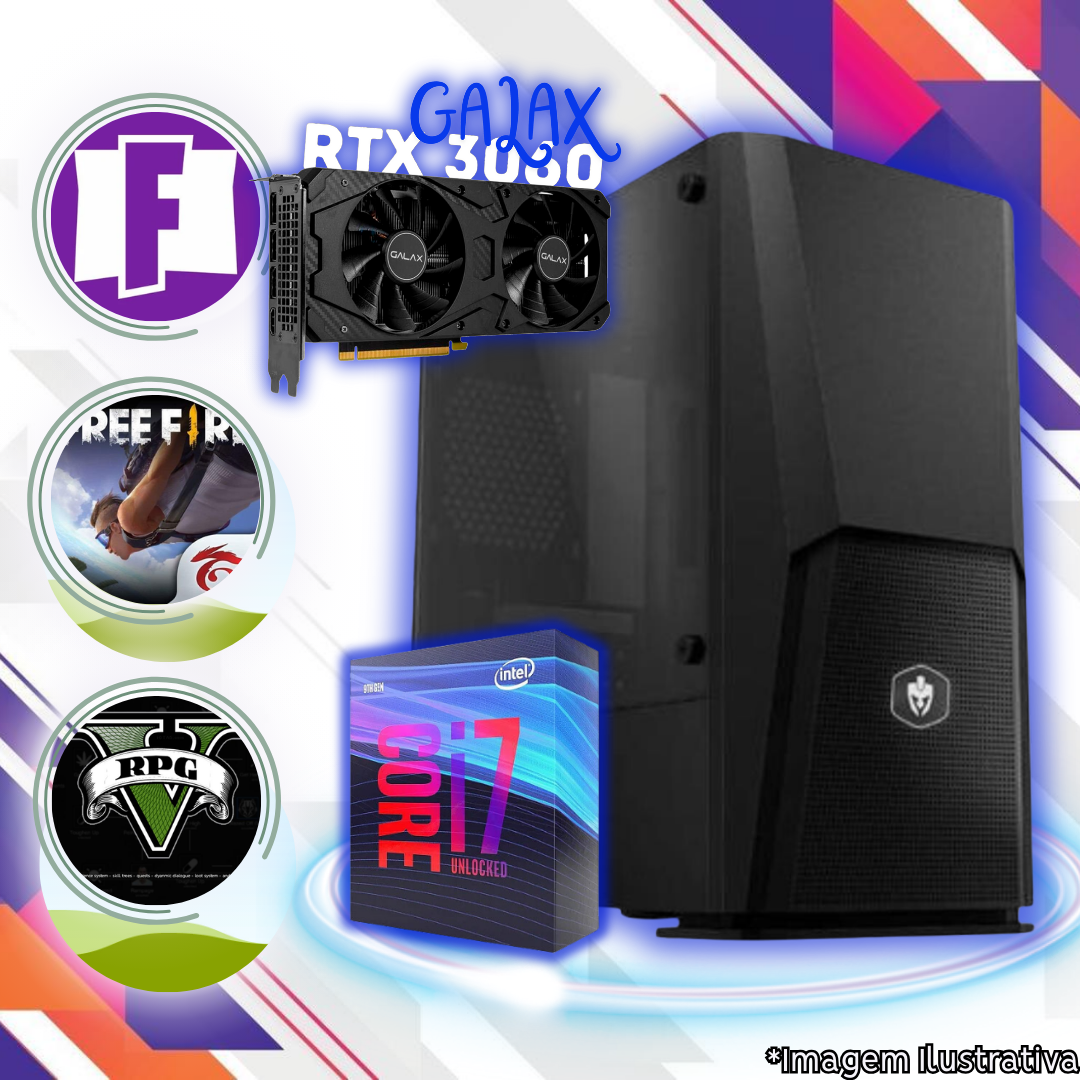
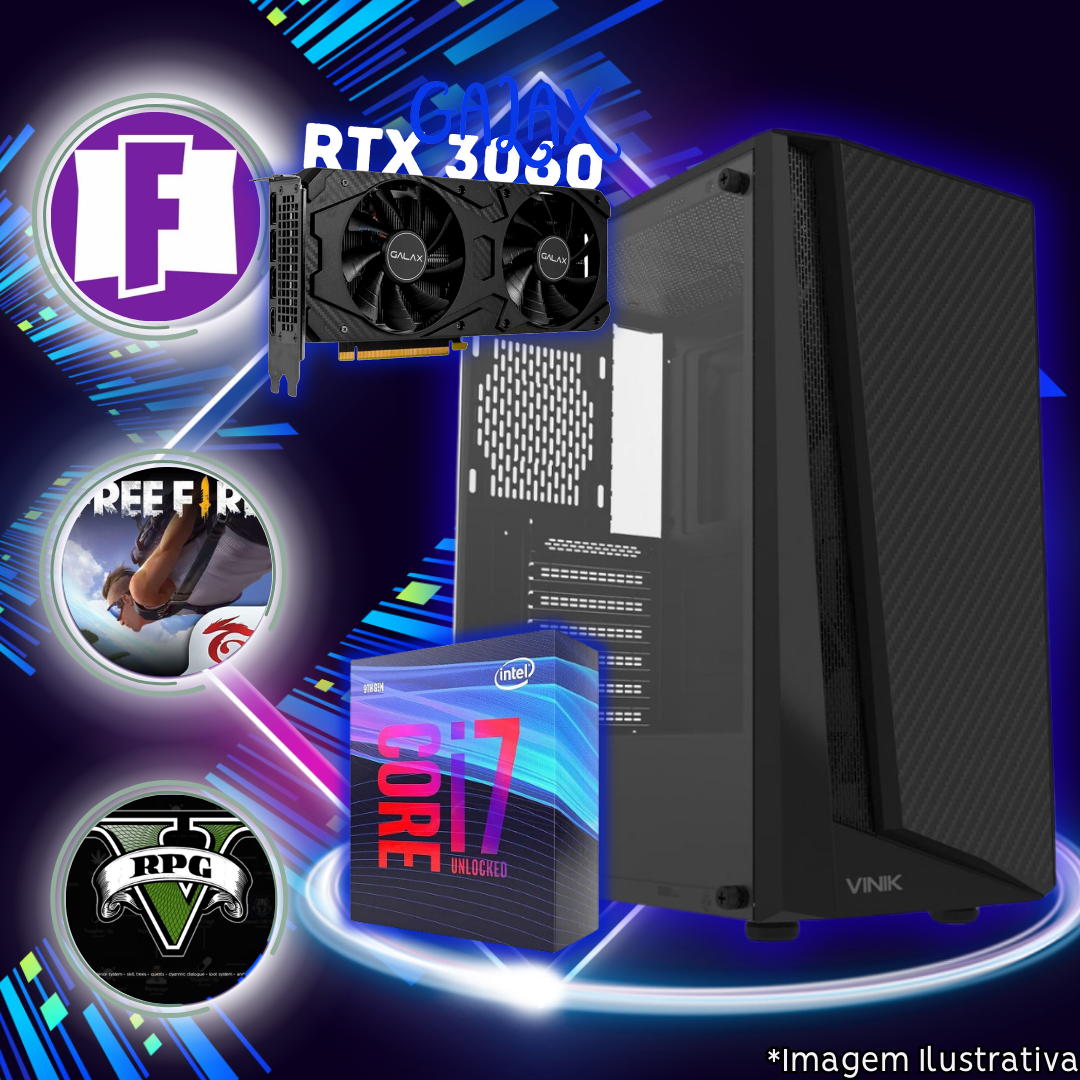
Intel PC0026 pic UPDATED

diff --git a/src/routes/intel/+page.svelte b/src/routes/intel/+page.svelte
@@ -69,7 +69,7 @@
     {
       title: "Nº10 - (PC0026) I7-9700 + RTX 3060",
       image: "PC0026.png",
-      text: "*Máquina ideal para Jogos como:* \n 🚔 GTA RP\n🔫 CSGO/VALORANT\n🦙 FORTNITE\n 🐎Red Dead Redemption 2\n🗡Elden Ring\n\n*Processador:* i7-9700 (9ºGEN)\n*Placa Mãe:* H310 (LGA 1151)\n*Air Cooler:* Hoopson RGB\n*Memória RAM:* 2x8GB DDR4 (16GB)\n*Placa de Vídeo:* RTX 3060\n*Armazenamento:* SSD NVME 500GB\n*Gabinete:* Gamer EVOLUT Blast C/ 2FANS\n*Fonte:* 700W 80PLUS\n\n*R$ 6.390,00* em até 10x sem juros!\n\n*Formas de Pagamento:*\n💳 Cartão - Débito à vista ou Crédito em até 10x *SEM JUROS*\n❖ Pix á Vista\n❌ NÃO aceitamos pagamento via boleto bancário\n❌ NÃO geramos link de pagamento \n\n🔥 Não perca essa chance de melhorar seu setup e jogar com qualidade! 🔥\n\n",
+      text: "*Máquina ideal para Jogos como:* \n 🚔 GTA RP\n🔫 CSGO/VALORANT\n🦙 FORTNITE\n 🐎Red Dead Redemption 2\n🗡Elden Ring\n\n*Processador:* i7-9700 (9ºGEN)\n*Placa Mãe:* H310 (LGA 1151)\n*Air Cooler:* Hoopson RGB\n*Memória RAM:* 2x8GB DDR4 (16GB)\n*Placa de Vídeo:* RTX 3060\n*Armazenamento:* SSD NVME 500GB\n*Gabinete:* Gamer Vinik Indux C/3 Fans\n*Fonte:* 700W 80PLUS\n\n*R$ 6.390,00* em até 10x sem juros!\n\n*Formas de Pagamento:*\n💳 Cartão - Débito à vista ou Crédito em até 10x *SEM JUROS*\n❖ Pix á Vista\n❌ NÃO aceitamos pagamento via boleto bancário\n❌ NÃO geramos link de pagamento \n\n🔥 Não perca essa chance de melhorar seu setup e jogar com qualidade! 🔥\n\n",
     },
   ];
 
